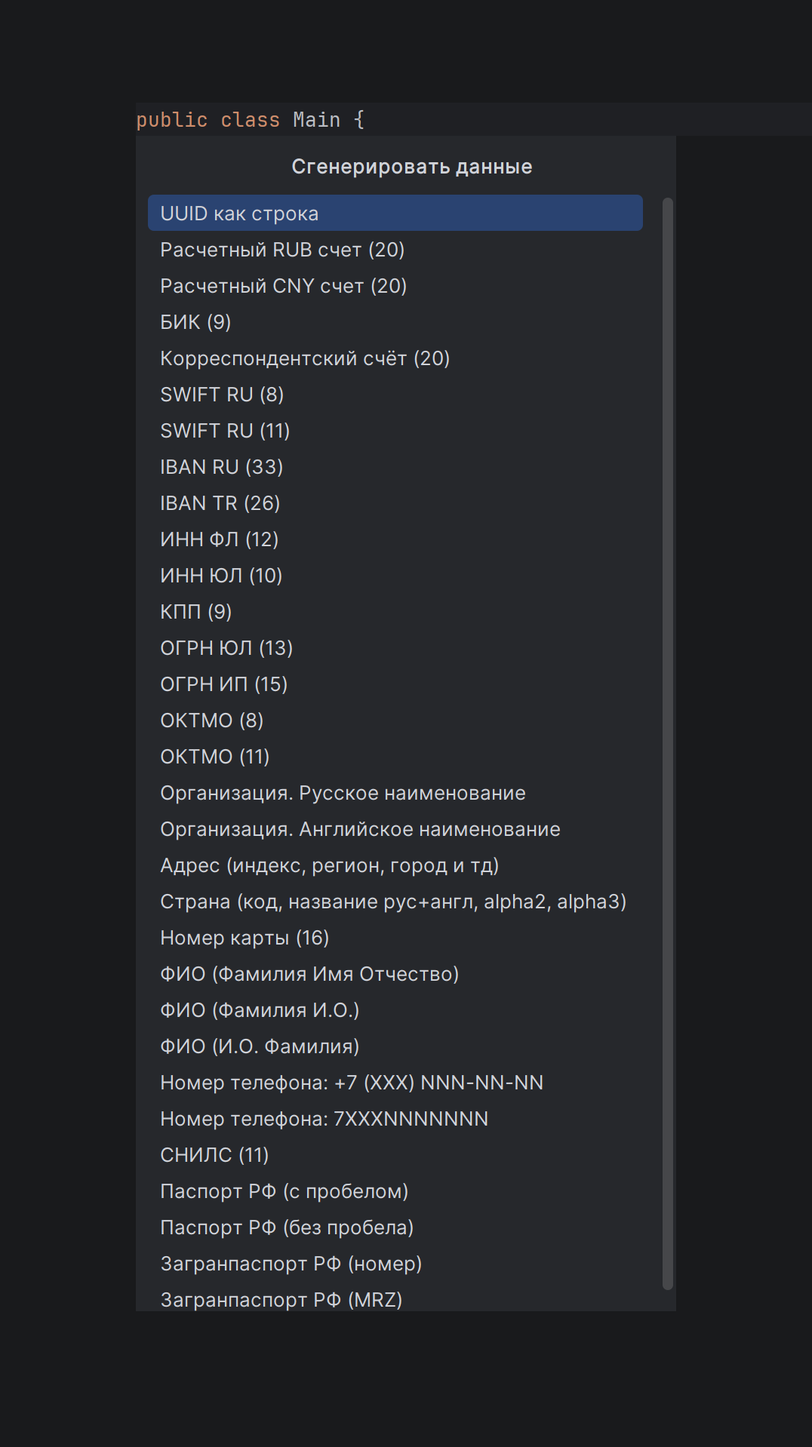
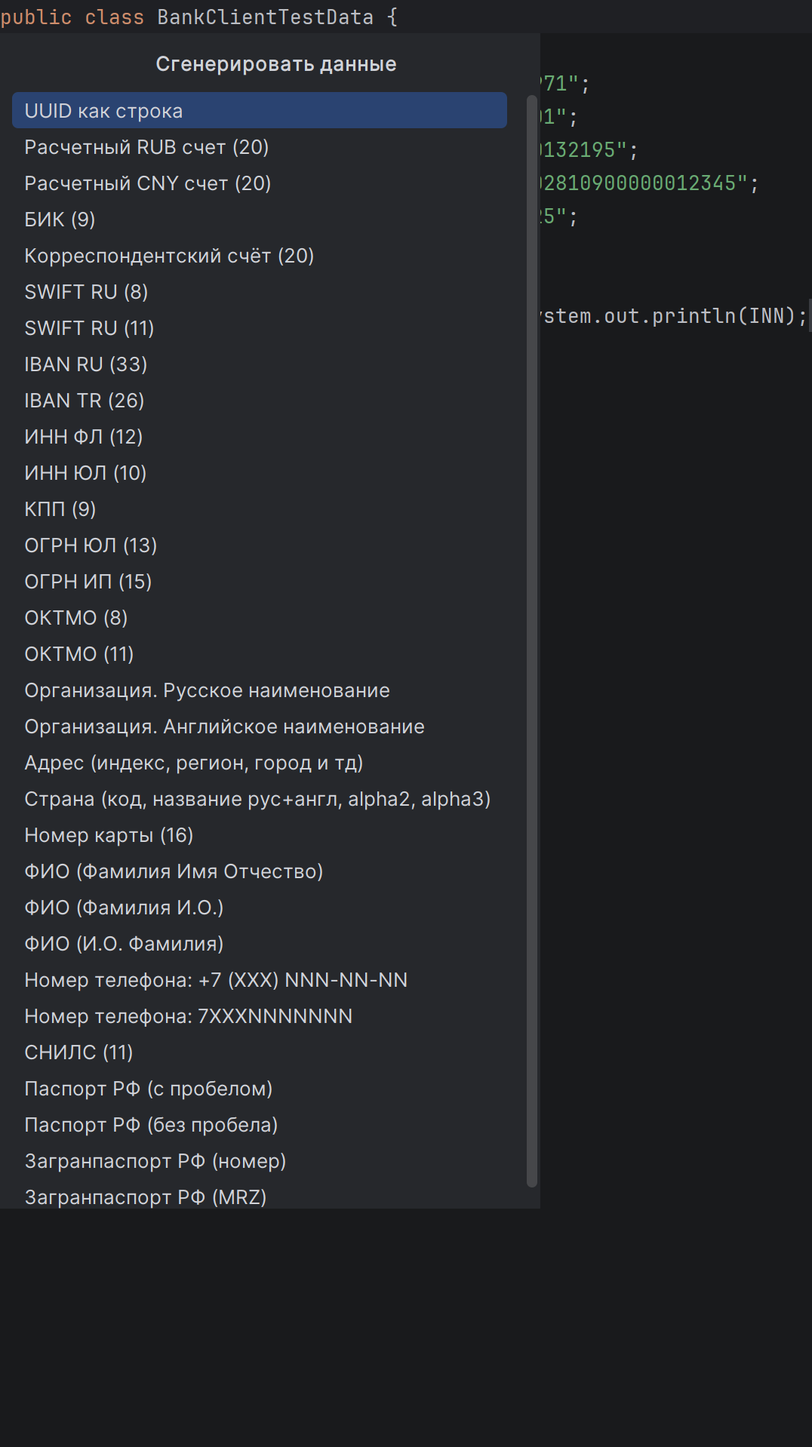
feat(docs): кадры под Marketplace и размерность иконки 40x40
Требования JetBrains: скриншот 1280x800 (16:10), минимум 1200x760; логотип —
одна размерность 40x40 в SVG. Ни то, ни другое в репозитории не соблюдалось.

Иконка: у META-INF/pluginIcon.svg стояли width/height 512 при viewBox 0 0 512 512.
Рендерился он верно, но объявленная размерность расходилась с требованием —
проставлены 40x40, viewBox не тронут. Проверено в собранном артефакте.

Скриншоты: у задачи docsScreenshots появился флаг -Pmarketplace. Он добавляет
к README-кадрам marketplace-generators.png и marketplace-settings.png на
фиксированной канве 1280x800 в x2, то есть ровно 2560x1600.

- кадр центрируется на попапе или диалоге и прижимается к границам нижнего слоя,
  иначе центрирование уводило рамку за край редактора и в кадр попадала пустая
  заливка
- попап из 31 генератора выше 800 px, поэтому в витринном кадре он показан
  с прокруткой — так его и видит пользователь
- перед съёмкой скрываются панели инструментов (HideAllWindows): в кадр не лезут
  дерево проекта, тулбар и бейдж лицензии тестовой IDE
- диалог настроек уменьшен до 1180x740, чтобы помещаться в канву с полями
- файл-фикстура заменён на осмысленный BankClientTestData: пустой редактор давал
  полкадра чёрного поля
- ожидание после сдвига сплиттера сравнивает ширину списка с ожидаемой, а не
  с прошлой: OnePixelSplitter хранит пропорцию в конфиге песочницы, и на втором
  прогоне ширина уже правильная — проверка "стало шире" не срабатывала
[…]

diff --git a/ru-bizgen-plugin/src/integrationTest/kotlin/ru/eda/plgn/bizgen/plugin/docs/DocsScreenshotsUITest.kt b/ru-bizgen-plugin/src/integrationTest/kotlin/ru/eda/plgn/bizgen/plugin/docs/DocsScreenshotsUITest.kt
@@ -21,6 +21,7 @@ import org.junit.jupiter.api.Test
 import org.junit.jupiter.api.fail
 import org.junit.jupiter.api.io.TempDir
 import ru.eda.plgn.bizgen.plugin.base.BaseUIIntegrationTest
+import java.awt.Dimension
 import javax.swing.JList
 import java.nio.file.Files
 import java.nio.file.Path
@@ -63,12 +64,19 @@ internal class DocsScreenshotsUITest : BaseUIIntegrationTest() {
 
     val outputDir = resolveOutputDir()
     Files.createDirectories(outputDir)
+    val marketplace = System.getProperty("bizgen.docs.marketplace") == "true"
 
     runIdea("docsScreenshots", projectDir, runTimeout = 5.minutes) {
       ideFrame {
         // Фиксированный размер окна: от него зависят размеры попапа и диалога настроек,
         // иначе композиция кадра едет вслед за монитором, на котором его сняли.
-        driver.cast(component, Window::class).setBounds(0, 0, FRAME_WIDTH, FRAME_HEIGHT)
+        val frame = component
+        driver.cast(frame, Window::class).setBounds(0, 0, FRAME_WIDTH, FRAME_HEIGHT)
+
+        // Панели инструментов убираются: редактор занимает почти всё окно, и кадр Marketplace
+        // (1280x800 вокруг попапа) целиком помещается внутрь редактора — без дерева проекта,
+        // тулбара и бейджа лицензии тестовой IDE.
+        driver.invokeAction("HideAllWindows")
 
         driver.openFile(SAMPLE_FILE_NAME, waitForCodeAnalysis = false)
         driver.invokeAction("ru.eda.plgn.bizgen.BizGenMainAction")
@@ -99,6 +107,16 @@ internal class DocsScreenshotsUITest : BaseUIIntegrationTest() {
           layers = arrayOf(editor().component, generatorsPopup.component),
         )
 
+        if (marketplace) {
+          driver.paintToFile(
+            target = outputDir.resolve("marketplace-generators.png"),
+            focus = generatorsPopup.component,
+            margin = MARKETPLACE_MARGIN,
+            layers = arrayOf(editor().component, generatorsPopup.component),
+            canvas = MARKETPLACE_CANVAS,
+          )
+        }
+
         keyboard { escape() }
 
         openSettingsDialog()
@@ -116,13 +134,16 @@ internal class DocsScreenshotsUITest : BaseUIIntegrationTest() {
           // и у самого экрана настроек (дерево слева / страница справа).
           content {
             val generatorList = list { byType(JList::class.java) }
-            val widthBeforeSplit = generatorList.component.getBounds().width
 
             driver.cast(x { byType(SPLITTER_CLASS) }.component, SplitterRef::class)
               .setProportion(DOCS_SPLITTER_PROPORTION)
 
-            waitFor("Generator list should get wider after moving the splitter", 10.seconds) {
-              generatorList.component.getBounds().width > widthBeforeSplit
+            // Ждём не "стало шире", а достижения ожидаемой ширины: OnePixelSplitter хранит
+            // пропорцию по ключу в конфиге, и в песочнице она переживает прошлый прогон —
+            // на повторном запуске ширина уже правильная и не меняется.
+            val expectedListWidth = (DIALOG_WIDTH * DOCS_SPLITTER_PROPORTION * SPLITTER_TOLERANCE).toInt()
+            waitFor("Generator list should be at least $expectedListWidth px wide", 10.seconds) {
+              generatorList.component.getBounds().width >= expectedListWidth
             }
           }
 
@@ -132,6 +153,19 @@ internal class DocsScreenshotsUITest : BaseUIIntegrationTest() {
             margin = PADDING,
             layers = arrayOf(component),
           )
+
+          if (marketplace) {
+            // Под диалогом рисуется окно IDE — на кадре 1280x800 вокруг диалога остаётся рамка,
+            // и он не выглядит вырезанным из пустоты.
+            driver.paintToFile(
+              target = outputDir.resolve("marketplace-settings.png"),
+              focus = component,
+              margin = MARKETPLACE_MARGIN,
+              layers = arrayOf(frame, component),
+              canvas = MARKETPLACE_CANVAS,
+            )
+          }
+
           cancelButton.click()
         }
         waitForNoOpenedDialogs()
@@ -150,24 +184,48 @@ internal class DocsScreenshotsUITest : BaseUIIntegrationTest() {
    * обрезаются этой рамкой, поэтому крупный слой (например, весь редактор) попадает в кадр только
    * тем куском, что вокруг фокуса.
    *
+   * [canvas] задаёт фиксированный размер кадра в логических пикселях (для Marketplace — 1280x800):
+   * фокус центрируется, а если он в кадр не помещается (список из 31 генератора выше 800 px),
+   * кадр прижимается к его верхнему краю — то есть попап показывается так, как его видит
+   * пользователь, с прокруткой.
+   *
    * Масштаб [SCALE] — картинка рисуется крупнее логического размера, чтобы не мылила на HiDPI.
    *
    * @param target путь итогового PNG
    * @param focus компонент, задающий рамку кадра
    * @param margin поля вокруг [focus] в логических пикселях
    * @param layers компоненты снизу вверх
+   * @param canvas фиксированный размер кадра; `null` — размер по [focus] и [margin]
    */
-  private fun Driver.paintToFile(target: Path, focus: Component, margin: Int, layers: Array<Component>) {
+  private fun Driver.paintToFile(
+    target: Path,
+    focus: Component,
+    margin: Int,
+    layers: Array<Component>,
+    canvas: Dimension? = null,
+  ) {
     val focusBounds = focus.getBounds()
     if (focusBounds.width <= 0 || focusBounds.height <= 0) {
       fail { "Component for ${target.fileName} has empty bounds: ${focusBounds.width}x${focusBounds.height}" }
     }
 
-    val canvasWidth = focusBounds.width + margin * 2
-    val canvasHeight = focusBounds.height + margin * 2
+    val canvasWidth = canvas?.width ?: (focusBounds.width + margin * 2)
+    val canvasHeight = canvas?.height ?: (focusBounds.height + margin * 2)
     val focusLocation = focus.getLocationOnScreen()
-    val originX = focusLocation.x - margin
-    val originY = focusLocation.y - margin
+
+    // Кадр прижимается к границам нижнего слоя: попап стоит у левого края редактора, и без этого
+    // центрирование уводило рамку за его пределы — в кадре появлялась пустая полоса заливки.
+    val base = layers.first()
+    val baseLocation = base.getLocationOnScreen()
+    val baseBounds = base.getBounds()
+    val originX = clampToBase(
+      focusLocation.x - offsetFor(focusBounds.width, canvasWidth, margin),
+      baseLocation.x, baseBounds.width, canvasWidth,
+    )
+    val originY = clampToBase(
+      focusLocation.y - offsetFor(focusBounds.height, canvasHeight, margin),
+      baseLocation.y, baseBounds.height, canvasHeight,
+    )
 
     withContext(OnDispatcher.EDT) {
       val image = new(BufferedImageRef::class, canvasWidth * SCALE, canvasHeight * SCALE, TYPE_INT_RGB)
@@ -200,6 +258,29 @@ internal class DocsScreenshotsUITest : BaseUIIntegrationTest() {
   }
 
   /**
+   * Отступ от края кадра до края фокуса: если фокус помещается в кадр — центрируем, если нет —
+   * прижимаем к краю с полями [margin], чтобы не срезать начало содержимого.
+   *
+   * @param focusSize размер фокуса по оси
+   * @param canvasSize размер кадра по той же оси
+   * @param margin минимальные поля
+   */
+  private fun offsetFor(focusSize: Int, canvasSize: Int, margin: Int): Int =
+    if (focusSize + margin * 2 <= canvasSize) (canvasSize - focusSize) / 2 else margin
+
+  /**
+   * Держит начало кадра внутри нижнего слоя, чтобы в кадр не попала пустая заливка за его краем.
+   * Если слой уже кадра — прижимаем к его началу, растягивать нечего.
+   *
+   * @param origin желаемое начало кадра по оси
+   * @param baseOrigin начало нижнего слоя по той же оси
+   * @param baseSize размер нижнего слоя
+   * @param canvasSize размер кадра
+   */
+  private fun clampToBase(origin: Int, baseOrigin: Int, baseSize: Int, canvasSize: Int): Int =
+    origin.coerceIn(baseOrigin, maxOf(baseOrigin, baseOrigin + baseSize - canvasSize))
+
+  /**
    * Каталог для готовых картинок: system property `bizgen.docs.img.dir` (выставляется gradle-задачей
    * `docsScreenshots`), fallback — `.github/img` относительно модуля (ручной запуск из IDE).
    */
@@ -207,14 +288,24 @@ internal class DocsScreenshotsUITest : BaseUIIntegrationTest() {
     Path.of(System.getProperty("bizgen.docs.img.dir") ?: "../.github/img")
 
   private companion object {
-    /** Файл-фикстура за попапом: код на фоне делает кадр узнаваемым. */
-    const val SAMPLE_FILE_NAME = "Main.java"
+    /**
+     * Файл-фикстура за попапом. Это фон кадра, поэтому класс осмысленный: видно, куда и зачем
+     * вставляются значения. Пустой редактор давал полкадра чёрного поля.
+     */
+    const val SAMPLE_FILE_NAME = "BankClientTestData.java"
 
     val SAMPLE_FILE_CONTENT = """
-      public class Main {
+      public class BankClientTestData {
+
+        private static final String INN = "7728168971";
+        private static final String KPP = "773001001";
+        private static final String OGRN = "1027700132195";
+        private static final String ACCOUNT = "40702810900000012345";
+        private static final String BIC = "044525225";
+        private static final String SNILS = "";
 
         public static void main(String[] args) {
-
+          System.out.println(INN);
         }
       }
     """.trimIndent()
@@ -224,18 +315,30 @@ internal class DocsScreenshotsUITest : BaseUIIntegrationTest() {
     const val FRAME_HEIGHT = 1300
 
     /** Размер диалога настроек: шире окна по умолчанию, чтобы имена генераторов не резались. */
-    const val DIALOG_WIDTH = 1280
-    const val DIALOG_HEIGHT = 860
+    const val DIALOG_WIDTH = 1180
+    const val DIALOG_HEIGHT = 740
 
     /** Сплиттер настроек: в проде 0.25, для кадра список нужен шире. */
     const val SPLITTER_CLASS = "com.intellij.ui.OnePixelSplitter"
     const val DOCS_SPLITTER_PROPORTION = 0.42f
+
+    /** Запас на рамки и границы при проверке ширины списка после сдвига сплиттера. */
+    const val SPLITTER_TOLERANCE = 0.7f
 
     /** Поля вокруг компонента, чтобы кадр не обрезался впритык. */
     const val PADDING = 12
 
     /** Поля вокруг попапа: в них видно код редактора под ним. */
     const val POPUP_MARGIN = 90
+
+    /**
+     * Кадр для Marketplace: рекомендованные JetBrains 1280x800 (16:10), с [SCALE] на выходе
+     * получается 2560x1600 — на HiDPI не мылит, при даунскейле до 1280x800 кириллица читается.
+     */
+    val MARKETPLACE_CANVAS: Dimension = Dimension(1280, 800)
+
+    /** Минимальные поля в кадре Marketplace, когда содержимое в него не помещается. */
+    const val MARKETPLACE_MARGIN = 24
 
     /** Во сколько раз картинка крупнее логического размера компонента. */
     const val SCALE = 2

diff --git a/AGENTS.md b/AGENTS.md
@@ -36,6 +36,7 @@
 
 # Пересъёмка иллюстраций README и Marketplace (реальная IDE, ~1 мин)
 ./gradlew :ru-bizgen-plugin:docsScreenshots
+./gradlew :ru-bizgen-plugin:docsScreenshots -Pmarketplace                        # + кадры 2560x1600 под витрину
 ./gradlew :ru-bizgen-plugin:docsScreenshots -PdocsImgDir=build/docs-screenshots  # не трогая .github/img
 
 # UI integration-тесты (реальная IDE + Driver SDK; отключены по умолчанию, ~6-10 мин)
@@ -393,8 +394,46 @@ intellij-repository.
 генераторов обрезаются) и масштаб отрисовки. Кадр генераторов собирается из двух слоёв — редактор и попап
 поверх него, — обрезанных по рамке попапа.
 
+С флагом `-Pmarketplace` к README-кадрам добавляются `marketplace-generators.png` и
+`marketplace-settings.png` — фиксированная канва 1280×800 (16:10) в ×2, то есть ровно 2560×1600,
+как рекомендует JetBrains. Кадр центрируется на попапе/диалоге и прижимается к границам нижнего слоя,
+чтобы в него не попала пустая заливка; попап выше 800 px, поэтому в витринном кадре он показан
+с прокруткой — так его и видит пользователь. Панели инструментов перед съёмкой скрываются
+(`HideAllWindows`), поэтому в кадр не попадают дерево проекта, тулбар и бейдж лицензии тестовой IDE.
+
 Переснимать после любого изменения списка генераторов или UI настроек. Вручную остаются `main.gif`,
 `work-sample.gif` (анимация) и `pluginIcon.png`. Снимать локально: на Linux-раннере другие шрифты.
+
+**Размеры для Marketplace и IDE.** Официальные требования JetBrains:
+
+| Что | Требование | Источник |
+|-----|-----------|----------|
+| Скриншот | **1280×800 (16:10)** — рекомендуемый; минимум **1200×760** | [Approval Guidelines](https://plugins.jetbrains.com/docs/marketplace/jetbrains-marketplace-approval-guidelines.html), [Best practices](https://plugins.jetbrains.com/docs/marketplace/best-practices-for-listing.html) |
+| Логотип | **40×40, SVG**, ≤ 2–3 КБ, `META-INF/pluginIcon.svg` (+ опциональный `pluginIcon_dark.svg`); показывается 40×40 в списке плагинов и 80×80 на странице | [Plugin Icon File](https://plugins.jetbrains.com/docs/intellij/plugin-icon-file.html) |
+| Видео | ссылка на YouTube, промо/демо **< 5 минут** | Best practices |
+| Картинки в описании | ориентир по ширине **600–800 px** | Best practices |
+| Запрещено | фото экрана и рамки устройств, мелкий нечитаемый текст, реклама и контент не по теме плагина | Approval Guidelines |
+
+Отдельных числовых требований к GIF у JetBrains нет — формат просто разрешён.
+
+**Практика для Ru BizGen** (следствия из требований выше, не цитаты):
+
+- снимать и записывать на канве **1280×800**, отдавать в ×2 — **2560×1600**: на HiDPI не мылит,
+  а при даунскейле до 1280×800 кириллица остаётся читаемой;
+- **GIF писать в тех же 1280×800** и не масштабировать окно при записи — растянутый кадр даёт
+  замыленный текст, а это прямой пункт запрета («мелкий нечитаемый текст»). Текущие `main.gif`
+  и `work-sample.gif` сняты 1440×1024 (соотношение 1.41 вместо 1.60) — следующую запись делать
+  в 1280×800; ориентиры: ≤ 20 секунд, 12–15 fps, до нескольких МБ (сейчас 0,9 и 2,1 МБ);
+- **попап целиком в 800 px по высоте не помещается**: 31 генератор дают ~974 логических пикселя.
+  Для Marketplace либо кадр показывает попап со скроллом (так его и видит пользователь), либо
+  съёмка идёт на уменьшенном шрифте редактора. Полный список без скролла — это README-кадр
+  из `docsScreenshots`, у него своя рамка;
+- первым в галерее ставить кадр, который объясняет плагин без подписи, — он же идёт на карточку;
+- в IDE список плагинов показывает только логотип и название, медиа видно на странице плагина.
+
+**Проверить в репозитории:** у `META-INF/pluginIcon.svg` проставлены `width="512" height="512"`
+при `viewBox="0 0 512 512"`. Рендерится он верно, но требование JetBrains — одна размерность 40×40;
+безопаснее выставить `width="40" height="40"`, оставив `viewBox` как есть.
 
 **Задача исключена из Kover** (`disabledForTestTasks`). Отчёты Kover висят на `check` (`onCheck = true`),
 а зависят от всех задач типа `Test` — без исключения `check` тянет `docsScreenshots` за собой, то есть
